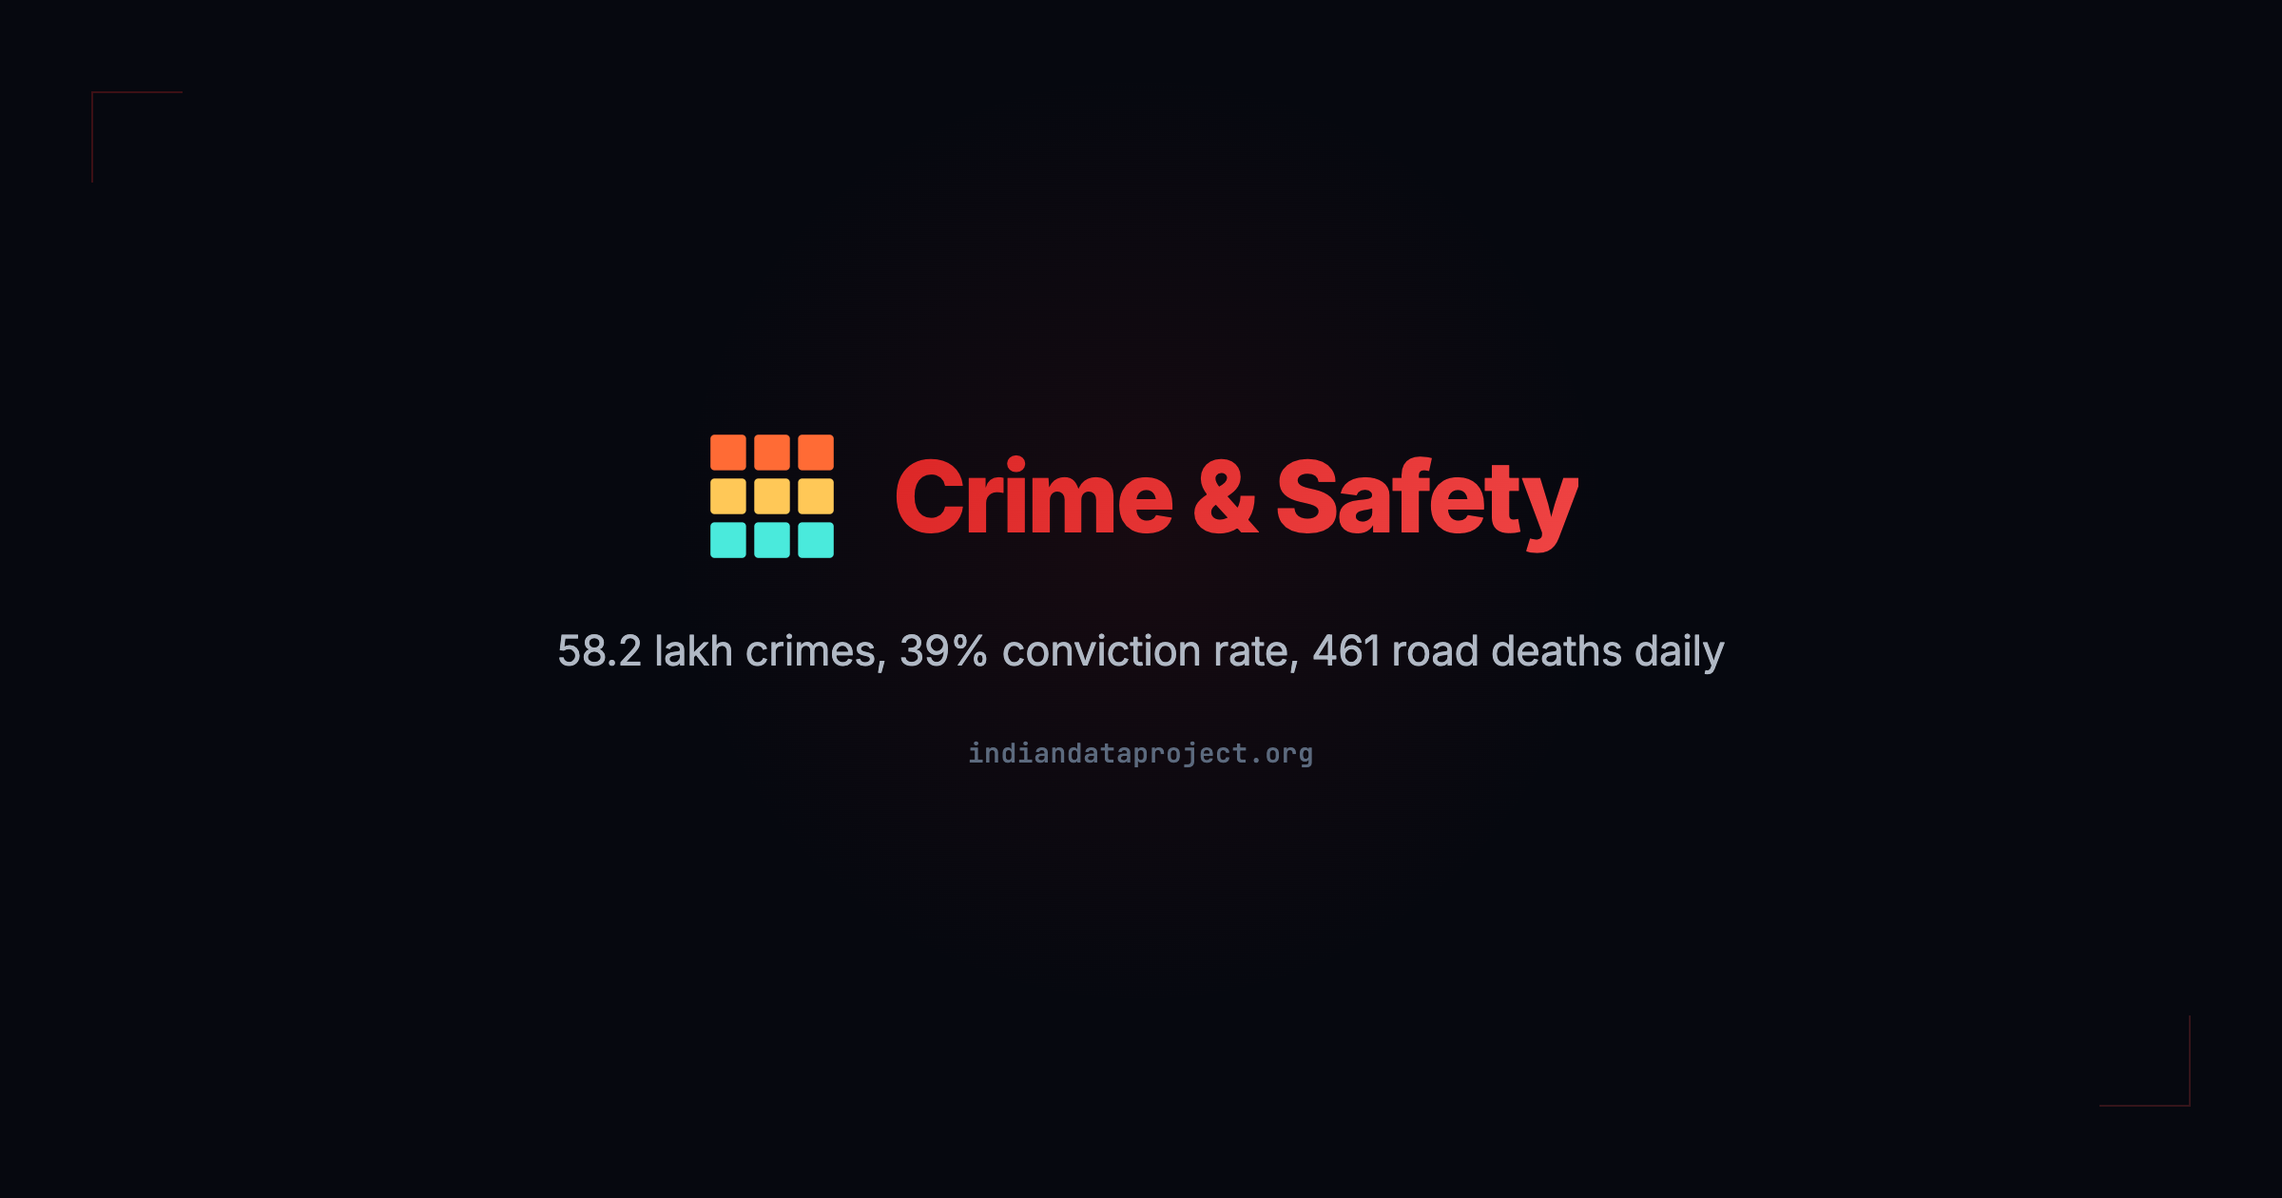
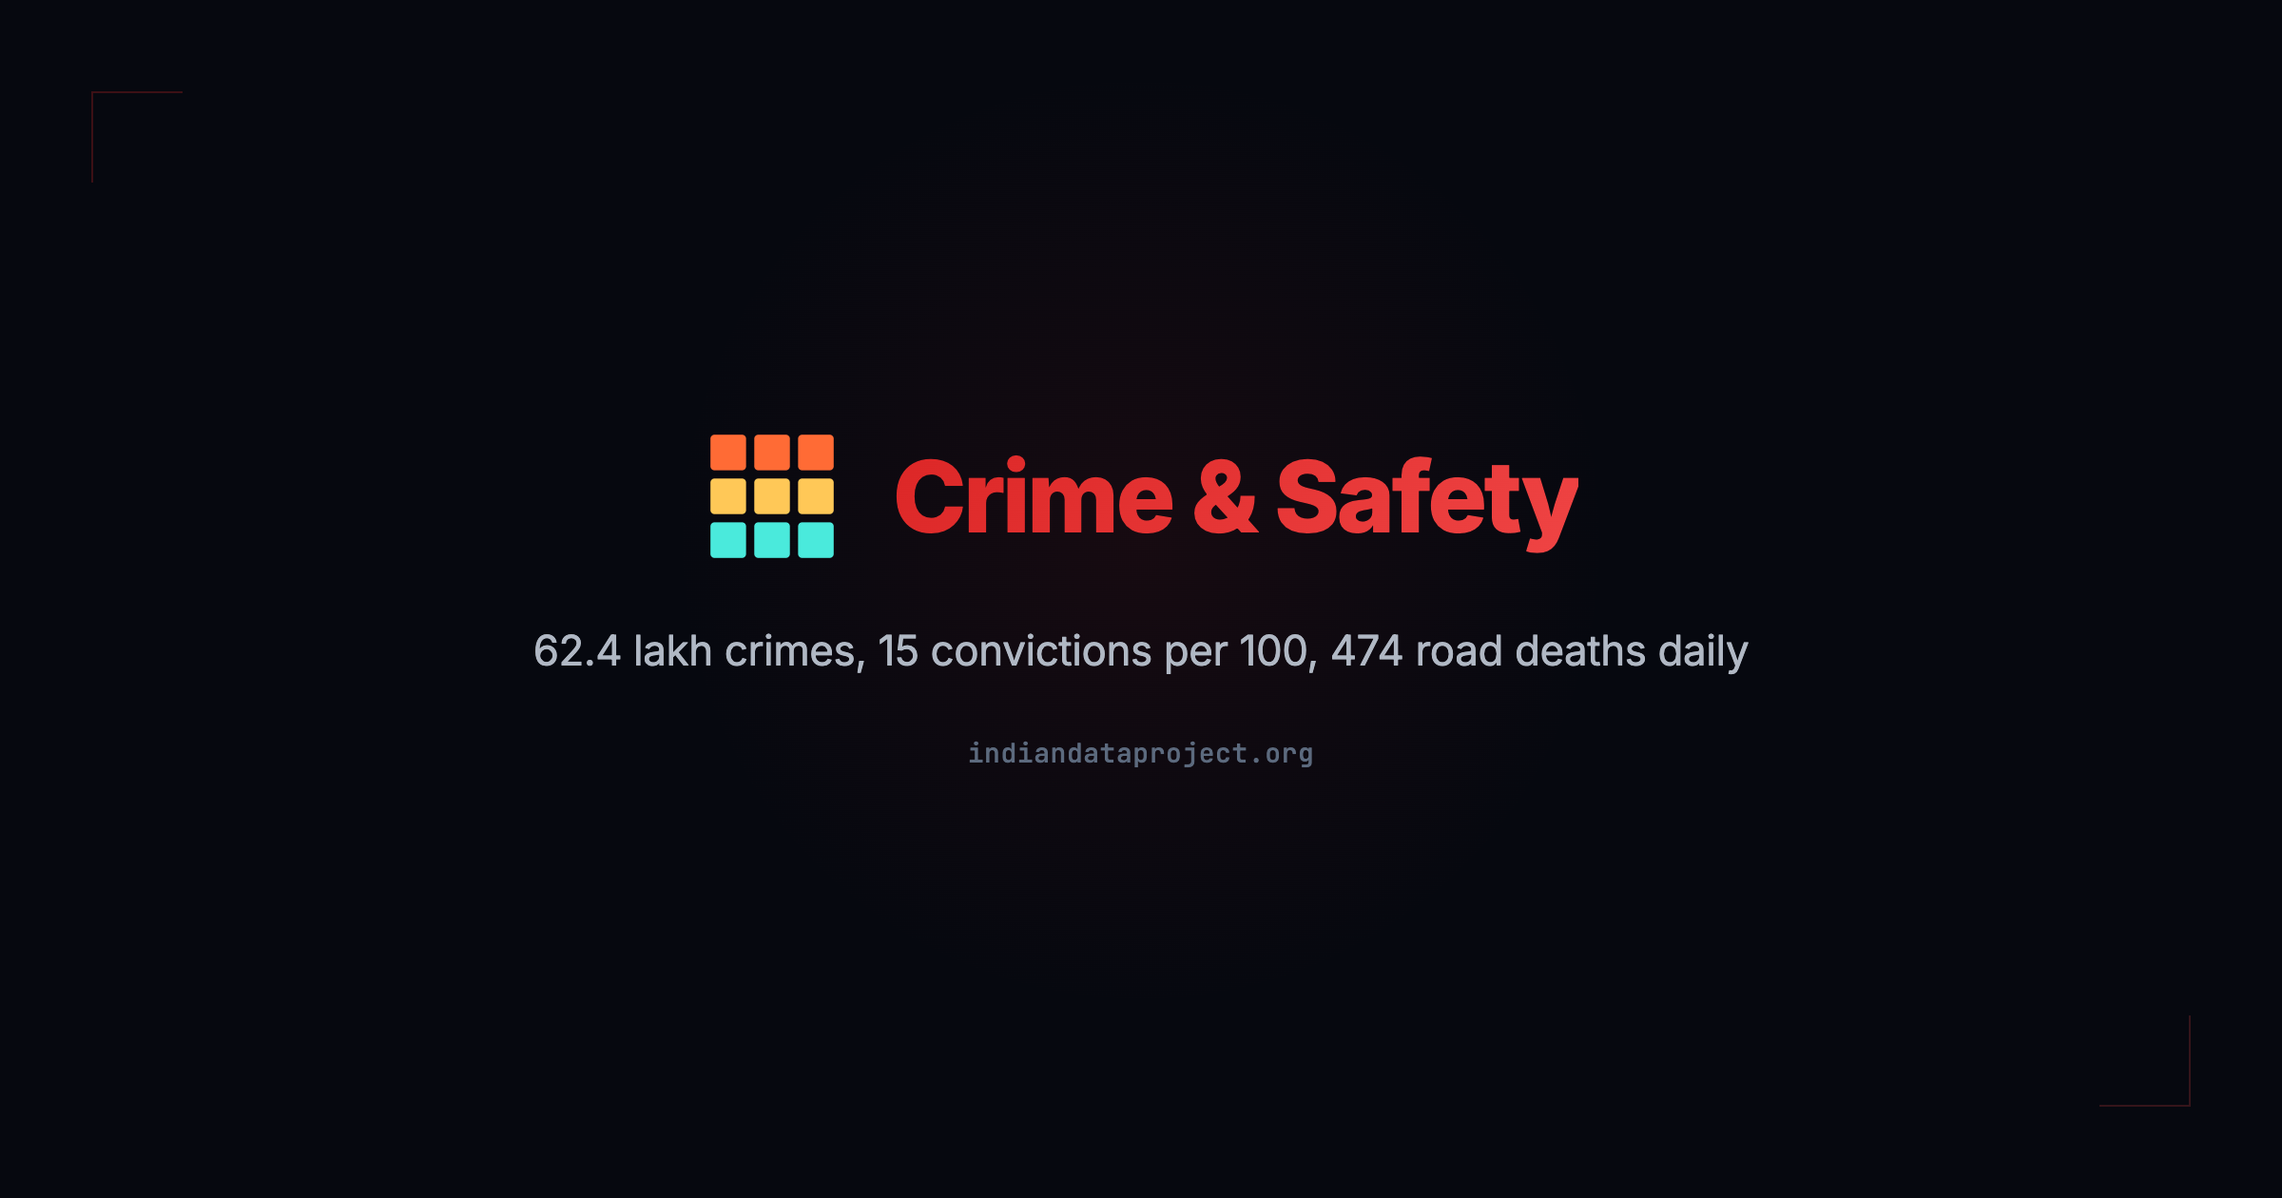
fix(data+content): pre-merge completeness audit — no pending stale claims
Full sweep of every user-facing surface the review workflow didn't cover,
plus disposition of all 37 journal findings:

- questions.json: 33 answers corrected against published data — crime
  block moved from NCRB 2022 to 2023 vintage (62.4L crimes, 4.48L women,
  474 road deaths/day, 54% of completed trials, 72.7% chargesheet, 155
  police/lakh, FIRs quadrupled/under-4%, top-3 IPC heads), repo 5.25%,
  CRR 3.0%, MH GSDP 36.42L Cr, per-capita NSDP 1.74L, growth 2.8-18.1%,
  14.7L schools, agri 17% GVA, coal capacity-vs-generation distinction,
  solar 82,000MW/22x, healthcare beds/spending aligned to
  glossary-sanctioned figures, informality anchored to PLFS Statement 9
- index.html noscript/SEO block: 23 stale values corrected (all domains)
- OG cards: crime/education/open-data taglines fixed + all regenerated
- education glossary: spending 3.5% -> 4.1% (matches published summary)
- CrimePage bridge: 'barely 3%' -> 'under 4%' (86420/2268000 = 3.8%)
- employment: REVERT of RJ/KL/ML unemployment rates to 4.3/4.4/4.8 —
  review skeptics proved the June 'transposition fix' read the all-ages
  sub-table of PLFS Table 18.0; the documented basis is 15+, verified
  tonight for all 30 states against the primary PDF (only these 3 off)
- employment: workforceTotal single-sourced from curated (API path
  hardcoded a diverging 57.0)
- healthcare: tbIncidence 195 (mislabeled WHO GTB 2023) -> 187, pinned
  to the published WHO-derived World Bank series (2024 point) with a
[…]

Changed region(s): [[0.2188, 0.5262, 0.7812, 0.5571]]

diff --git a/index.html b/index.html
@@ -633,9 +633,9 @@
 
         <h2>RBI Data</h2>
         <ul>
-          <li>Repo Rate: 6.25% (Neutral stance, February 2025)</li>
-          <li>CRR: 4.00%, SLR: 18.00%</li>
-          <li>Forex Reserves: $724 billion</li>
+          <li>Repo Rate: 5.25% (Neutral stance, December 2025)</li>
+          <li>CRR: 3.00%, SLR: 18.00%</li>
+          <li>Forex Reserves: $643 billion (FY2024-25)</li>
           <li>M3 Growth: 11.3%</li>
           <li>Exchange Rate: ~83.67 INR per USD (FY2024-25 avg)</li>
         </ul>
@@ -648,9 +648,9 @@
 
         <h2>State Finances (FY 2022-23)</h2>
         <ul>
-          <li>Top GSDP: Maharashtra Rs 45.32 lakh crore</li>
-          <li>Combined state GDP: Rs 280.73 lakh crore</li>
-          <li>Growth range: 2.9% to 25.4% (constant prices)</li>
+          <li>Top GSDP: Maharashtra Rs 36.42 lakh crore</li>
+          <li>Combined state GDP: Rs 272.2 lakh crore</li>
+          <li>Growth range: 2.8% to 18.1%</li>
           <li>Data across 31 of 36 states/UTs</li>
         </ul>
         <ul>
@@ -665,8 +665,8 @@
           <li>Total Population: ~1.45 billion (World Bank 2024)</li>
           <li>Literacy Rate: 74.04% (Census 2011)</li>
           <li>Sex Ratio: 943 females per 1000 males</li>
-          <li>Infant Mortality Rate: 28 per 1000 live births (SRS 2023)</li>
-          <li>Total Fertility Rate: 2.0 (NFHS-5, below replacement)</li>
+          <li>Infant Mortality Rate: 24 per 1000 live births (SRS 2024)</li>
+          <li>Total Fertility Rate: 1.96 (World Bank 2024, below replacement)</li>
         </ul>
         <ul>
           <li><a href="/census">Census Visual Story</a></li>
@@ -677,9 +677,9 @@
 
         <h2>Education</h2>
         <ul>
-          <li>Total Students: 248.2 million (UDISE+ 2023-24)</li>
-          <li>GER Primary: 104.8%, Secondary: 79.6%</li>
-          <li>Pupil-Teacher Ratio: 26 (national average)</li>
+          <li>Total Students: 246.9 million (UDISE+ 2024-25)</li>
+          <li>GER Primary: 90.9%, Secondary: 78.7%</li>
+          <li>Pupil-Teacher Ratio: 24 (national average)</li>
           <li>Education Spending: 4.1% of GDP (NEP 2020 target: 6%)</li>
         </ul>
         <ul>
@@ -691,10 +691,10 @@
 
         <h2>Employment</h2>
         <ul>
-          <li>Unemployment Rate: 4.2% (PLFS Oct-Dec 2025)</li>
-          <li>Labour Force Participation Rate: 55.8%</li>
-          <li>Female LFPR: 35.2%, Youth Unemployment: 12.8%</li>
-          <li>Agricultural Employment Share: ~42% (declining from 60% in 2000)</li>
+          <li>Unemployment Rate: 3.1% (PLFS Annual 2025)</li>
+          <li>Labour Force Participation Rate: 59.3%</li>
+          <li>Female LFPR: 40.0%, Youth Unemployment: 9.9%</li>
+          <li>Agricultural Employment Share: ~43% (declining from 60% in 2000)</li>
         </ul>
         <ul>
           <li><a href="/employment">Employment Visual Story</a></li>
@@ -705,10 +705,10 @@
 
         <h2>Healthcare</h2>
         <ul>
-          <li>Hospital Beds: 1.6 per 1,000 (WHO recommends 3.5)</li>
+          <li>Hospital Beds: 0.5 per 1,000 in government hospitals, ~1.9 including private (WHO recommends 3.5)</li>
           <li>Physicians: 0.7 per 1,000</li>
           <li>Health Expenditure: 3.3% of GDP</li>
-          <li>Out-of-Pocket Spending: 48.2% of total health expenditure</li>
+          <li>Out-of-Pocket Spending: 45.1% of total health expenditure</li>
         </ul>
         <ul>
           <li><a href="/healthcare">Healthcare Visual Story</a></li>
@@ -718,7 +718,7 @@
         </ul>
 
         <h2>Environment</h2>
-        <p>PM2.5: 53.3 ug/m3. Forest cover: 25.17%. Renewable energy: 43.4%.</p>
+        <p>PM2.5: 53.3 ug/m3. Forest cover: 21.76% (25.17% incl. tree cover). Renewable capacity share: 43.4%.</p>
         <a href="/environment">View Environment Data</a>
 
         <h2>Elections</h2>
@@ -737,11 +737,11 @@
 
         <h2>Crime &amp; Safety</h2>
         <ul>
-          <li>Total cognizable crimes 2022: 58.2 lakh (rate: 422 per lakh)</li>
-          <li>Crimes against women: 4.45 lakh (cruelty, kidnapping, assault lead)</li>
-          <li>Road accident deaths: 1.68 lakh (461 per day)</li>
-          <li>Conviction rate: 39.1% | Chargesheet rate: 74.6%</li>
-          <li>Police-population ratio: 151 per lakh (UN recommends 222)</li>
+          <li>Total cognizable crimes 2023: 62.4 lakh (rate: 448 per lakh)</li>
+          <li>Crimes against women: 4.48 lakh (cruelty, kidnapping, assault lead)</li>
+          <li>Road accident deaths: 1.73 lakh (474 per day)</li>
+          <li>Conviction rate: 54% of completed trials | Chargesheet rate: 72.7%</li>
+          <li>Police-population ratio: 155 per lakh (UN recommends 222)</li>
         </ul>
         <ul>
           <li><a href="/crime">Crime &amp; Safety Visual Story</a></li>

diff --git a/src/pages/CrimePage.tsx b/src/pages/CrimePage.tsx
@@ -119,10 +119,10 @@ export default function CrimePage() {
       <div className="composition-divider" />
 
       <NarrativeBridge
-        text="While roads kill in the physical world, a new frontier of crime is exploding in the digital one. Cybercrime FIRs tripled in 5 years. But of 22.68 lakh complaints filed online, barely 3% became FIRs. The digital economy grew faster than digital policing."
+        text="While roads kill in the physical world, a new frontier of crime is exploding in the digital one. Cybercrime FIRs tripled in 5 years. But of 22.68 lakh complaints filed online, under 4% became FIRs. The digital economy grew faster than digital policing."
         highlights={{
           'tripled': 'var(--crimson)',
-          '3%': 'var(--crimson)',
+          '4%': 'var(--crimson)',
           'grew': 'var(--crimson-light)',
           'faster': 'var(--crimson-light)',
         }}

diff --git a/pipeline/src/employment/sources/curated.py b/pipeline/src/employment/sources/curated.py
@@ -58,13 +58,13 @@ PLFS_STATE_DATA = [
     {"id": "WB", "name": "West Bengal", "lfpr": 59.1, "lfprMale": 82.3, "lfprFemale": 37.5, "unemploymentRate": 2.8, "wpr": 57.4, "selfEmployed": 55.4},
     {"id": "MP", "name": "Madhya Pradesh", "lfpr": 65.1, "lfprMale": 83.5, "lfprFemale": 46.1, "unemploymentRate": 1.5, "wpr": 64.1, "selfEmployed": 66.1},
     {"id": "TN", "name": "Tamil Nadu", "lfpr": 62.3, "lfprMale": 78.3, "lfprFemale": 47.3, "unemploymentRate": 3.4, "wpr": 60.1, "selfEmployed": 36.2},
-    {"id": "RJ", "name": "Rajasthan", "lfpr": 64.5, "lfprMale": 77.0, "lfprFemale": 52.3, "unemploymentRate": 4.4, "wpr": 61.7, "selfEmployed": 68.3},
+    {"id": "RJ", "name": "Rajasthan", "lfpr": 64.5, "lfprMale": 77.0, "lfprFemale": 52.3, "unemploymentRate": 4.3, "wpr": 61.7, "selfEmployed": 68.3},
     {"id": "KA", "name": "Karnataka", "lfpr": 59.4, "lfprMale": 79.4, "lfprFemale": 39.8, "unemploymentRate": 2.3, "wpr": 58.0, "selfEmployed": 47.5},
     {"id": "GJ", "name": "Gujarat", "lfpr": 65.2, "lfprMale": 83.4, "lfprFemale": 46.2, "unemploymentRate": 0.9, "wpr": 64.6, "selfEmployed": 56.9},
     {"id": "AP", "name": "Andhra Pradesh", "lfpr": 60.9, "lfprMale": 78.3, "lfprFemale": 44.8, "unemploymentRate": 4.2, "wpr": 58.3, "selfEmployed": 46.6},
     {"id": "TS", "name": "Telangana", "lfpr": 61.4, "lfprMale": 77.1, "lfprFemale": 46.4, "unemploymentRate": 5.0, "wpr": 58.3, "selfEmployed": 52.1},
     {"id": "OD", "name": "Odisha", "lfpr": 63.2, "lfprMale": 80.6, "lfprFemale": 47.3, "unemploymentRate": 2.9, "wpr": 61.3, "selfEmployed": 61.1},
-    {"id": "KL", "name": "Kerala", "lfpr": 57.4, "lfprMale": 75.8, "lfprFemale": 41.2, "unemploymentRate": 4.3, "wpr": 54.9, "selfEmployed": 37.6},
+    {"id": "KL", "name": "Kerala", "lfpr": 57.4, "lfprMale": 75.8, "lfprFemale": 41.2, "unemploymentRate": 4.4, "wpr": 54.9, "selfEmployed": 37.6},
     {"id": "JH", "name": "Jharkhand", "lfpr": 59.8, "lfprMale": 77.0, "lfprFemale": 43.7, "unemploymentRate": 2.7, "wpr": 58.2, "selfEmployed": 68.0},
     {"id": "AS", "name": "Assam", "lfpr": 61.9, "lfprMale": 81.7, "lfprFemale": 42.8, "unemploymentRate": 3.7, "wpr": 59.6, "selfEmployed": 59.8},
     {"id": "PB", "name": "Punjab", "lfpr": 55.2, "lfprMale": 79.2, "lfprFemale": 30.2, "unemploymentRate": 5.3, "wpr": 52.3, "selfEmployed": 44.5},
@@ -77,7 +77,7 @@ PLFS_STATE_DATA = [
     {"id": "GA", "name": "Goa", "lfpr": 51.2, "lfprMale": 73.4, "lfprFemale": 27.4, "unemploymentRate": 8.3, "wpr": 46.9, "selfEmployed": 35.4},
     {"id": "TR", "name": "Tripura", "lfpr": 62.1, "lfprMale": 78.9, "lfprFemale": 46.3, "unemploymentRate": 2.7, "wpr": 60.4, "selfEmployed": 55.8},
     {"id": "MN", "name": "Manipur", "lfpr": 63.1, "lfprMale": 74.1, "lfprFemale": 52.6, "unemploymentRate": 5.2, "wpr": 59.8, "selfEmployed": 67.2},
-    {"id": "ML", "name": "Meghalaya", "lfpr": 72.3, "lfprMale": 80.6, "lfprFemale": 64.3, "unemploymentRate": 4.7, "wpr": 68.9, "selfEmployed": 44.9},
+    {"id": "ML", "name": "Meghalaya", "lfpr": 72.3, "lfprMale": 80.6, "lfprFemale": 64.3, "unemploymentRate": 4.8, "wpr": 68.9, "selfEmployed": 44.9},
     {"id": "NL", "name": "Nagaland", "lfpr": 72.1, "lfprMale": 79.7, "lfprFemale": 64.5, "unemploymentRate": 6.7, "wpr": 67.3, "selfEmployed": 67.3},
     {"id": "MZ", "name": "Mizoram", "lfpr": 53.9, "lfprMale": 67.8, "lfprFemale": 38.0, "unemploymentRate": 2.4, "wpr": 52.6, "selfEmployed": 64.6},
     {"id": "SK", "name": "Sikkim", "lfpr": 74.7, "lfprMale": 81.3, "lfprFemale": 66.7, "unemploymentRate": 3.2, "wpr": 72.3, "selfEmployed": 49.0},

diff --git a/pipeline/src/publish/provenance_registry.py b/pipeline/src/publish/provenance_registry.py
@@ -433,12 +433,12 @@ def healthcare_figures(files: dict[str, dict]) -> dict[str, dict]:
                    == f["summary.json"]["outOfPocketPct"])])
     _figure(figures, files, "summary.tbIncidence", "Tuberculosis incidence", "per 100,000",
             s["tbIncidence"],
-            [doc("WHO Global Tuberculosis Report 2023", "World Health Organization",
-                 "https://www.who.int/teams/global-tuberculosis-programme/tb-reports"),
-             curation("Curated from the WHO report; double-confirmed across two "
-                      "independent verification passes (June 2026)", published)],
-            [Check("Positive and within global plausibility",
-                   lambda f: 0 < f["summary.json"]["tbIncidence"] < 1000)])
+            [WB_API(), curation("WHO-derived World Bank estimates (SH.TBS.INCD); "
+                                "headline pinned to the latest published series point "
+                                "(July 2026)", published)],
+            [Check("Equals the latest point of the published TB incidence series",
+                   lambda f: f["disease.json"]["tbIncidenceTimeSeries"][-1]["value"]
+                   == f["summary.json"]["tbIncidence"])])
     _figure(figures, files, "summary.physiciansPer1000", "Physician density",
             "per 1,000 people", s["physiciansPer1000"],
             [WB_API(), curation("Curated from the World Bank series; latest "
@@ -506,7 +506,7 @@ DOMAIN_REGISTRIES: dict[str, tuple[list[str], Callable]] = {
     "education": (["summary.json", "spending.json"], education_figures),
     "employment": (["summary.json", "unemployment.json", "participation.json",
                     "sectoral.json"], employment_figures),
-    "healthcare": (["summary.json", "spending.json", "infrastructure.json"],
+    "healthcare": (["summary.json", "spending.json", "infrastructure.json", "disease.json"],
                    healthcare_figures),
     "environment": (["summary.json", "forest.json", "air-quality.json"],
                     environment_figures),

diff --git a/pipeline/src/healthcare/main.py b/pipeline/src/healthcare/main.py
@@ -136,7 +136,7 @@ def _build_summary() -> dict:
         "dptImmunization": NATIONAL_TOTALS["dptImmunization"],
         "tbIncidence": NATIONAL_TOTALS["tbIncidence"],
         "lastUpdated": date.today().isoformat(),
-        "source": "World Bank + National Health Profile 2022 + NFHS-6 (2023-24) + WHO Global TB Report 2023",
+        "source": "World Bank + National Health Profile 2022 + NFHS-6 (2023-24)",
     }
 
 
@@ -282,8 +282,8 @@ def _build_glossary() -> dict:
                 "id": "tb-incidence",
                 "term": "TB Incidence",
                 "simple": "The number of new tuberculosis cases per 100,000 people per year.",
-                "detail": "India accounts for 27% of global TB cases — the highest burden of any country. Incidence: ~199 per 100,000 (2023). The National TB Elimination Programme targets elimination by 2025 (5 years ahead of the global SDG target of 2030). Despite this ambitious target, India still reports ~28 lakh new cases annually. Multi-drug resistant TB (MDR-TB) is an additional challenge at ~1.2 lakh cases/year.",
-                "inContext": "India: ~199 TB cases per 100K. 27% of global burden. Target: elimination by 2025.",
+                "detail": "India accounts for 27% of global TB cases — the highest burden of any country. Incidence: ~187 per 100,000 (2024, WHO-derived World Bank series). The National TB Elimination Programme targets elimination by 2025 (5 years ahead of the global SDG target of 2030). Despite this ambitious target, India still reports ~28 lakh new cases annually. Multi-drug resistant TB (MDR-TB) is an additional challenge at ~1.2 lakh cases/year.",
+                "inContext": "India: ~187 TB cases per 100K (2024). 27% of global burden. Target: elimination by 2025.",
                 "relatedTerms": ["disease-burden"],
             },
             {

diff --git a/pipeline/src/education/main.py b/pipeline/src/education/main.py
@@ -365,8 +365,8 @@ def _build_glossary() -> dict:
                 "id": "education-spending",
                 "term": "Education Spending (% of GDP)",
                 "simple": "How much of the country's total economic output is spent on education by the government.",
-                "detail": "India spends about 3.5% of GDP on education — below the NEP 2020 target of 6% and below the global average of ~4.3%. The Kothari Commission (1966) first recommended 6%. For context: the US spends ~5%, UK ~5.5%, Brazil ~6%. Low spending per student means overcrowded classrooms, undertrained teachers, and poor infrastructure in government schools.",
-                "inContext": "India: ~3.5% GDP. NEP target: 6%. Global average: ~4.3%.",
+                "detail": "India spends about 4.1% of GDP on education — below the NEP 2020 target of 6% and just below the global average of ~4.3%. The Kothari Commission (1966) first recommended 6%. For context: the US spends ~5%, UK ~5.5%, Brazil ~6%. Low spending per student means overcrowded classrooms, undertrained teachers, and poor infrastructure in government schools.",
+                "inContext": "India: ~4.1% GDP. NEP target: 6%. Global average: ~4.3%.",
                 "relatedTerms": ["nep", "ptr", "udise"],
             },
             {

diff --git a/pipeline/src/employment/sources/mospi_plfs.py b/pipeline/src/employment/sources/mospi_plfs.py
@@ -27,6 +27,7 @@ import logging
 from typing import Any
 
 from src.common.mospi_client import fetch
+from src.employment.sources.curated import NATIONAL_TOTALS
 
 logger = logging.getLogger(__name__)
 
@@ -257,6 +258,6 @@ def fetch_national_totals(year: str = "2023-24") -> dict[str, Any] | None:
         "lfpr": totals.get("lfpr", 0),
         "youthUnemployment": totals.get("youthUnemployment", 0),
         "femaleLfpr": totals.get("femaleLfpr", 0),
-        "workforceTotal": 57.0,  # crores — API doesn't provide this directly, kept from curated
+        "workforceTotal": NATIONAL_TOTALS["workforceTotal"],  # crores — API doesn't provide this; single source of truth is curated
         "selfEmployedPct": totals.get("selfEmployedPct", 0),
     } if totals else None

diff --git a/pipeline/src/healthcare/sources/curated.py b/pipeline/src/healthcare/sources/curated.py
@@ -122,5 +122,5 @@ NATIONAL_TOTALS = {
     "healthExpGDP": 3.3,                # World Bank 2021 (latest)
     "outOfPocketPct": 45.1,              # World Bank 2021 (SH.XPD.OOPC.CH.ZS = 45.11)
     "dptImmunization": 91.0,            # World Bank 2023
-    "tbIncidence": 195.0,               # WHO Global TB Report 2023 (India, per 100K) — was 199
+    "tbIncidence": 187.0,               # World Bank SH.TBS.INCD, 2024 point (WHO-derived); kept equal to disease.json series latest
 }
